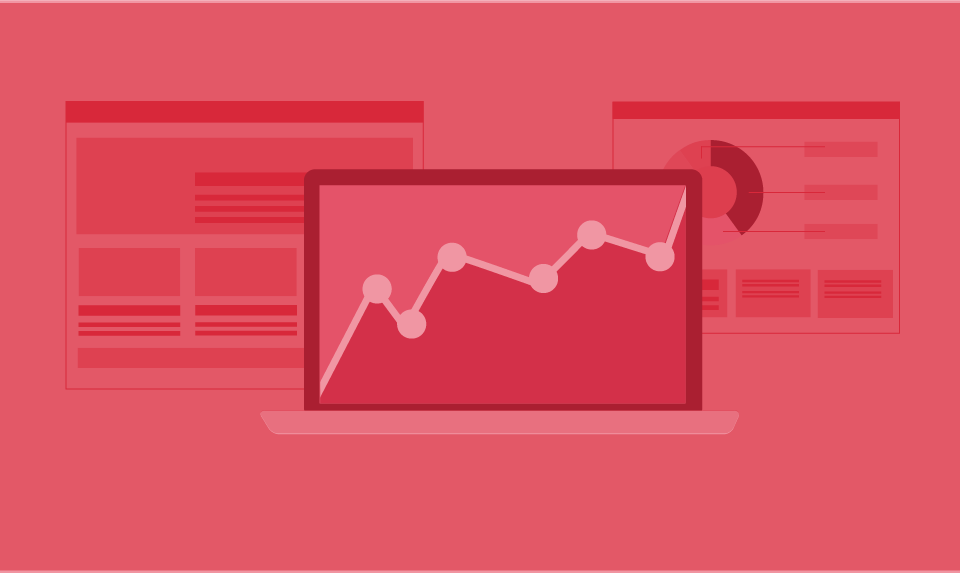
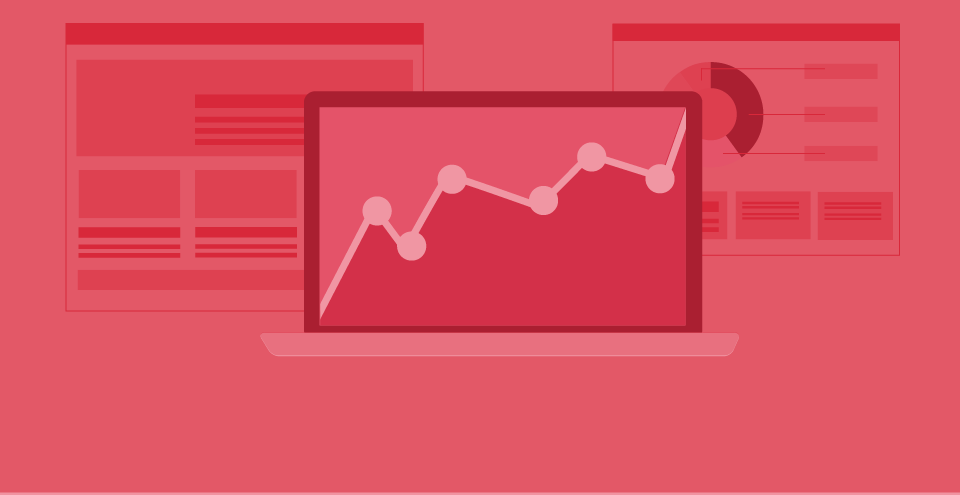
Styling the site and adding in responsive

Changed region(s): [[0.0625, 0.1212, 0.9375, 0.7273], [0.0, 0.0, 1.0, 0.0909]]

diff --git a/app/form.html b/app/form.html
@@ -17,7 +17,9 @@
         <link href='http://fonts.googleapis.com/css?family=Montserrat:400,700' rel='stylesheet' type='text/css'>
         <!-- endbuild -->
         <!-- build:js scripts/vendor/modernizr.js -->
+     
         <script src="../bower_components/modernizr/modernizr.js"></script>
+
         <!-- endbuild -->
 
     </head>
@@ -29,7 +31,8 @@
 
         <header class="form">
             <div class="container">
-                <h1><a href="index.html"> <img class="logo" src="images/ringninja-logo.svg" alt="Ring Ninja Logo"></a></h1>
+                <h1>Ring Ninja</h1>
+                <a href="index.html"> <img class="logo" src="images/ringninja-logo.svg" alt="Ring Ninja Logo"></a>
             </div>
         </header>
     
@@ -90,7 +93,7 @@
                     <fieldset class="google-tracking">
                         <div class="field">
                             <label for="event">Track as</label>
-                            <select name="event" id="event">
+                            <select class="event" name="event" id="event">
                                 <option value="Event">Event</option>
                                 <option value="pageview">Page View</option>
                             </select>
@@ -104,9 +107,6 @@
 
                     <input type="submit" value="Save">
                 </form> 
-                    
-                    
-
             </div> <!-- end of content -->
 
             <div class="sidebar">

diff --git a/app/styles/_765up.scss b/app/styles/_765up.scss
@@ -1,0 +1,109 @@
+@media screen and (min-width: 765px){
+
+/*=================================
+=            Home Page            =
+=================================*/
+header {
+	.logo {
+			max-width: 400px;
+		}
+
+	img.icon {
+		max-width: 120px;
+	}
+
+	h1{
+		@include font-size(2);
+	}
+}
+
+.wide-container {
+	margin: 0 auto;
+	padding: 0;
+}
+
+.container {
+	width: 60%;
+	margin: 0 auto;
+	padding: 2%;
+}
+
+.full-width-grey {
+	margin: 0; 
+	padding: 0;
+}
+
+button.red, button.blue {
+	width: 330px;
+	line-height: 0;
+}
+
+h2 {
+	padding: 0;
+}
+
+/* Features blocks */
+
+.features {
+	width: 50%;
+	min-height: 175px;
+	float: left;
+	margin-top: 2.5%;
+	border-bottom: 0;
+	position: relative;
+
+	.circle {
+		margin: 0;
+	 	position: absolute;
+		width: 50px;
+		height: 50px;
+	}
+
+	h3, p {
+		text-align: left;
+		padding: 0 70px;
+	}
+}
+
+
+
+/*-----  End of Home Page  ------*/
+
+/*=================================
+=            Form Page            =
+=================================*/
+header.form {
+	max-height: 120px;
+}
+
+.wide-container {
+	width: 90%;
+}
+
+.content {
+	width: 60%;
+	float: left;
+	margin-bottom: 10%;
+}
+
+.sidebar {
+	width: 40%;
+	float: right;
+}
+
+.callout {
+	margin: 0 0 7% 7%;
+}
+
+/*-----  End of Form Page  ------*/
+
+
+
+
+
+
+
+
+
+
+}

diff --git a/app/styles/_form.scss b/app/styles/_form.scss
@@ -5,6 +5,10 @@ header.form {
 	
 	h1 {
 		margin: 0 auto;
+		text-indent: -9999px;
+		position: absolute;
+		top: 0;
+		left: 0;
 	}
 
 	.container {
@@ -13,7 +17,9 @@ header.form {
 	}
 
 	.logo {
-		margin:0 auto;
+		margin: 0 auto;
+		max-width: 300px;
+		padding: 2%;
 	}
 }
 
@@ -46,23 +52,6 @@ label {
 
 label.hidden {
 	display: none;
-}
-
-/* Call-Out Sidebar */
-
-.callout {
-	margin: 5%;
-	padding: 5%;
-}
-
-button.small {
-	@include button;
-	width: 120px;
-	font-weight: bold;
-	@include font-size(1);
-	height: 30px;
-	color: white;
-	background: $blue;
 }
 
 /* Checkboxes */
@@ -111,4 +100,26 @@ input[type="submit"]{
 	@include button;
 	background: $blue;
 	text-align: center;
+}
+
+/* Select */
+
+select {
+	padding: 1%;
+	width: 70%;
+	float: right;
+	@include font-size(1);
+	-webkit-appearance: none;
+	font-family: $body-font;
+	color: $body;
+	border-radius: 0;
+	border: 1px solid $super-light;
+	opacity: 0.5;
+	background: url(../images/05-arrow-red.svg) no-repeat right;
+	background-size: contain;
+
+	&:focus {
+		opacity: 1;
+		outline: 1px solid $body;
+	}
 }

diff --git a/app/styles/_320up.scss b/app/styles/_320up.scss
@@ -6,11 +6,11 @@
 	/* Header */
 
 	.logo {
-		width: 80%;
+		width: 70%;
 	}
 
 	header {
-		background:  url(../images/header_illustration.png) -305px -160px no-repeat;
+		background:  url(../images/header_illustration.png) -305px 0px no-repeat;
 
 		img.icon {
 			width: 25%;
@@ -90,7 +90,7 @@
 		}
 		
 		input[type="text"]{
-			width: 60%;
+			width: 63%;
 			@include font-size(1);
 		}
 	}
@@ -119,6 +119,27 @@
 		}
 	}
 
+	fieldset.google-tracking {
+		.field{
+			padding: 5%;
+		}
+
+		label {
+			width: 30%;
+			padding: 1% 3%;
+			float: left;
+		}
+
+		input[type="text"]{
+			width: 60%;
+			float: right;
+		}
+
+		select {
+			width: 60%;
+			float: right;
+		}
+	}
 	/*-----  End of Form page  ------*/
 	
 	

diff --git a/app/styles/main.scss b/app/styles/main.scss
@@ -17,7 +17,7 @@ body {
 
 header {
     background:  url(../images/header_illustration.png) 0px -100px no-repeat;
-    background-size: cover;
+    background-size: contain;
     margin: 0;
     width: 100%;
 
@@ -117,8 +117,13 @@ img.icon {
 
 footer {
     background: $super-light;
-    padding: 5%;
     text-align: center;
+    clear: both;
+
+    p {
+        padding: 3% 0;
+        margin: 0;
+    }
 
     a {
         color: $blue;
@@ -136,7 +141,10 @@ footer {
 =            Responsive            =
 ==================================*/
 @import 'form';
+@import 'sidebar';
 @import '320up';
+@import '530up';
+@import '765up';
 
 /*-----  End of Responsive  ------*/
 

diff --git a/app/styles/_sidebar.scss b/app/styles/_sidebar.scss
@@ -1,0 +1,44 @@
+/* Call-Out Sidebar */
+
+.callout {
+	margin: 8%;
+	padding: 2% 5%;
+}
+
+button.small {
+	@include button;
+	width: 110px;
+	height: 25px;
+	font-weight: bold;
+	@include font-size(0.75);
+	color: white;
+	background: $blue;
+	margin: 0 0 10% 0;
+}
+
+
+.callout {
+	h3 {
+		text-transform: uppercase;
+		color: $blue;
+		@include font-size(1);
+		margin: 5% 0;
+	}
+
+	h4 {
+		@include font-size(1);
+		color: $red;
+		margin: 1% 0;
+		display: block;
+	}
+
+	p {
+		text-align: left;
+		margin: 2% 0;
+	}
+
+	button.red {
+		width: 100%;
+		margin: 10% 0;
+	}
+}

diff --git a/app/index.html b/app/index.html
@@ -43,7 +43,7 @@
         <div class="full-width-grey">
             <div class="container">
                 <h2 class="red">Using Wordpress?</h2>
-                <p>Download our plugin for Wordpress and add ring.ninja to any of your websites.</p>
+                <h2>Download our plugin for Wordpress and add ring.ninja to any of your websites.</h2>
                 <button class="blue">Download Plugin</button>
             </div>
         </div> <!-- end full-width-grey -->

diff --git a/app/styles/_530up.scss b/app/styles/_530up.scss
@@ -1,0 +1,19 @@
+@media screen and (min-width: 530px){
+
+	header{
+		width: 100%;
+		background: url(../images/header_illustration.png) center no-repeat;
+		background-size: cover;
+		max-height: 500px;
+	}
+	
+	.container, .wide-container {
+		padding: 5% 0;
+	}
+
+	.container {
+		width: 60%;
+	}
+
+
+}

diff --git a/app/styles/_mixins.scss b/app/styles/_mixins.scss
@@ -25,7 +25,7 @@ $body-font : 'Montserrat', 'Helvetica', 'Arial', sans-serif;
 	border: none;
 	display: block;
 	margin: 0 auto;
-	@include font-size(1);
+	@include font-size(1, 0.5);
 
 	a {
 		color: white;
